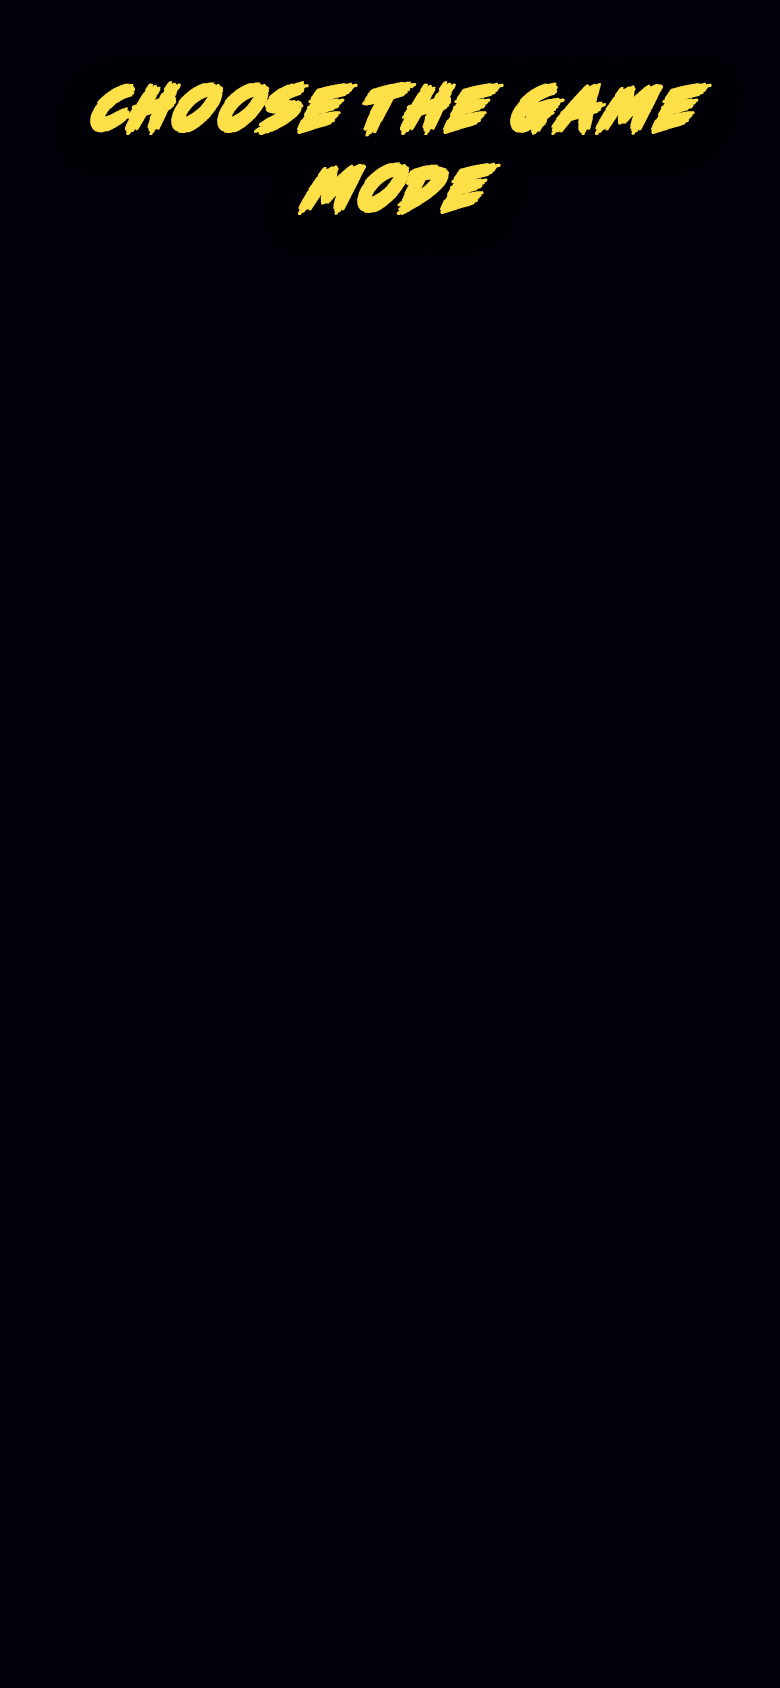
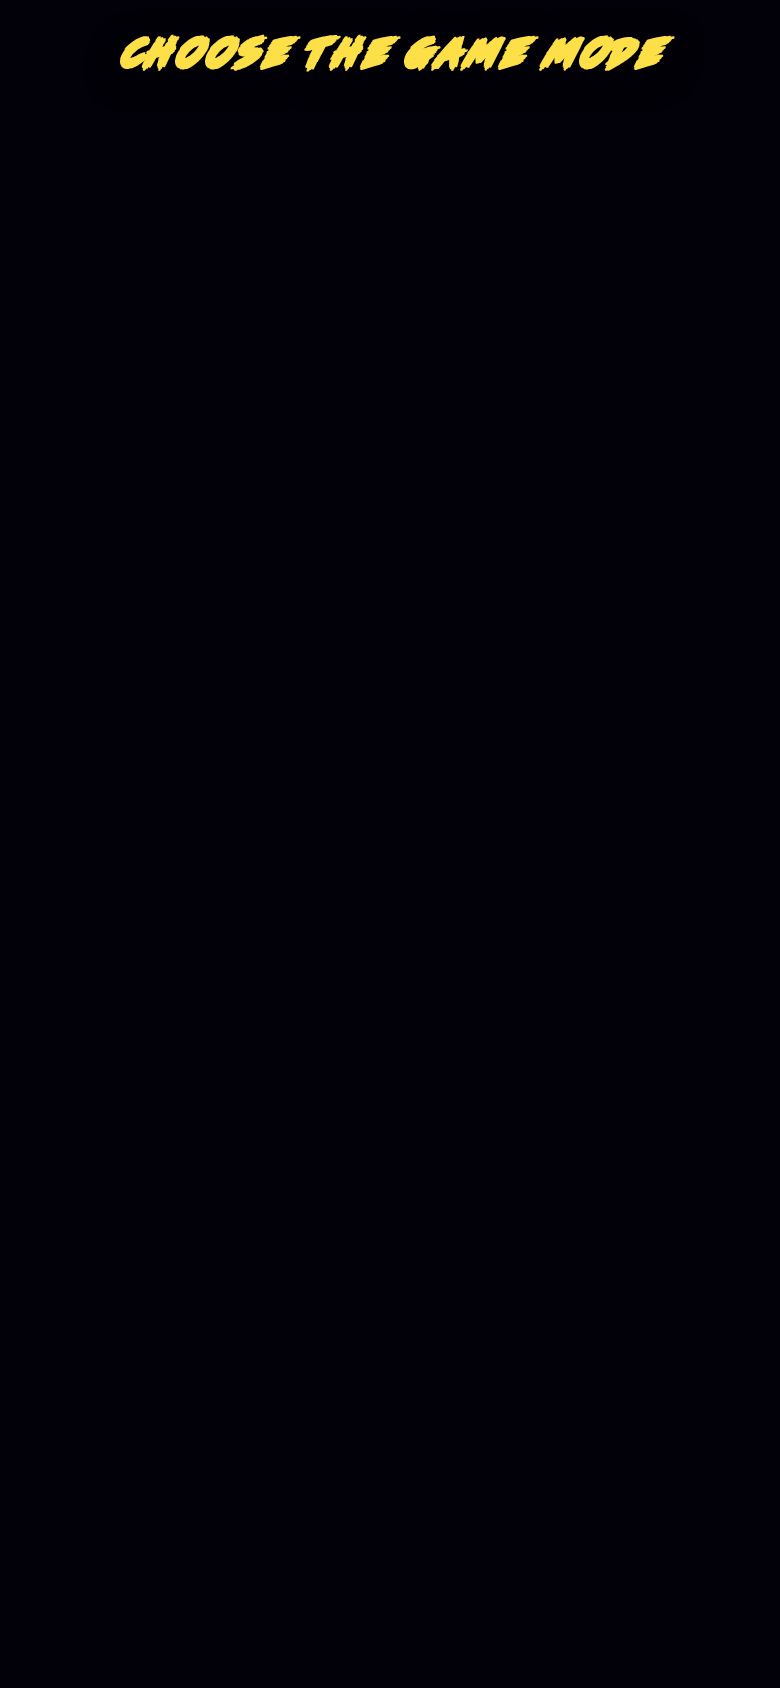
fix(mobile): compact round-type/category layout for locked viewport

Changed region(s): [[0.1231, 0.0, 0.9231, 0.1232]]

diff --git a/src/App.jsx b/src/App.jsx
@@ -3858,7 +3858,7 @@ function RoundTypeChoiceGrid({
                 aria-label={`Choose ${type.name}`}
                 data-testid={`round-type-${type.id}`}
               >
-                <div className="mx-auto aspect-square w-full max-w-[11.5rem] sm:max-w-[13rem]">
+                <div className="mx-auto aspect-square w-full max-w-[9.5rem] sm:max-w-[10.5rem]">
                   <ThemeArt
                     src={roundTypeLogoSrc}
                     alt={`${type.name} mode icon`}
@@ -9952,8 +9952,8 @@ export default function App() {
     setPartyChatInput("");
   };
   const categoryChoiceGridClass = isDesktopLandscapeWeb
-    ? "mt-8 grid grid-cols-3 gap-4 items-stretch"
-    : "mt-8 grid grid-cols-2 gap-4 sm:grid-cols-3 items-stretch";
+    ? "mt-4 grid flex-1 grid-cols-3 gap-3 items-stretch content-start"
+    : "mt-3 grid flex-1 grid-cols-2 gap-3 sm:grid-cols-3 items-stretch content-start";
   const startupGraphicsReady = useGlobalGraphicsPreload();
   useCategoryAndModeIconPreload({
     screen,
@@ -10340,10 +10340,11 @@ export default function App() {
           wallpaperSrc={UI_WALLPAPER_IN_GAME_SRC}
           overlayClassName="bg-black/45"
           lockViewport
+          contentClassName="!py-3"
         >
-          <div className="mx-auto max-w-4xl space-y-6">
-            <div className="px-1 pt-1 text-center">
-              <h2 className="mt-3 text-4xl font-black text-yellow-300 [text-shadow:0_4px_16px_rgba(0,0,0,0.65)]">
+          <div className="mx-auto flex min-h-0 w-full max-w-4xl flex-1 flex-col">
+            <div className="shrink-0 px-1 text-center">
+              <h2 className="text-2xl font-black leading-tight text-yellow-300 [text-shadow:0_4px_16px_rgba(0,0,0,0.65)] sm:text-3xl">
                 Choose the game mode
               </h2>
               <RoundTypeChoiceGrid
@@ -10364,9 +10365,10 @@ export default function App() {
           wallpaperSrc={UI_WALLPAPER_IN_GAME_SRC}
           overlayClassName="bg-black/45"
           lockViewport
+          contentClassName="!py-3"
         >
-          <div className="mx-auto max-w-4xl space-y-6">
-            <div className="px-1 pt-1 text-center">
+          <div className="mx-auto flex min-h-0 w-full max-w-4xl flex-1 flex-col">
+            <div className="shrink-0 px-1 text-center">
               <div className="text-xs uppercase tracking-[0.3em] text-white/70">
                 Round owner: {players[currentRoundOwnerIndex]?.name}
               </div>
